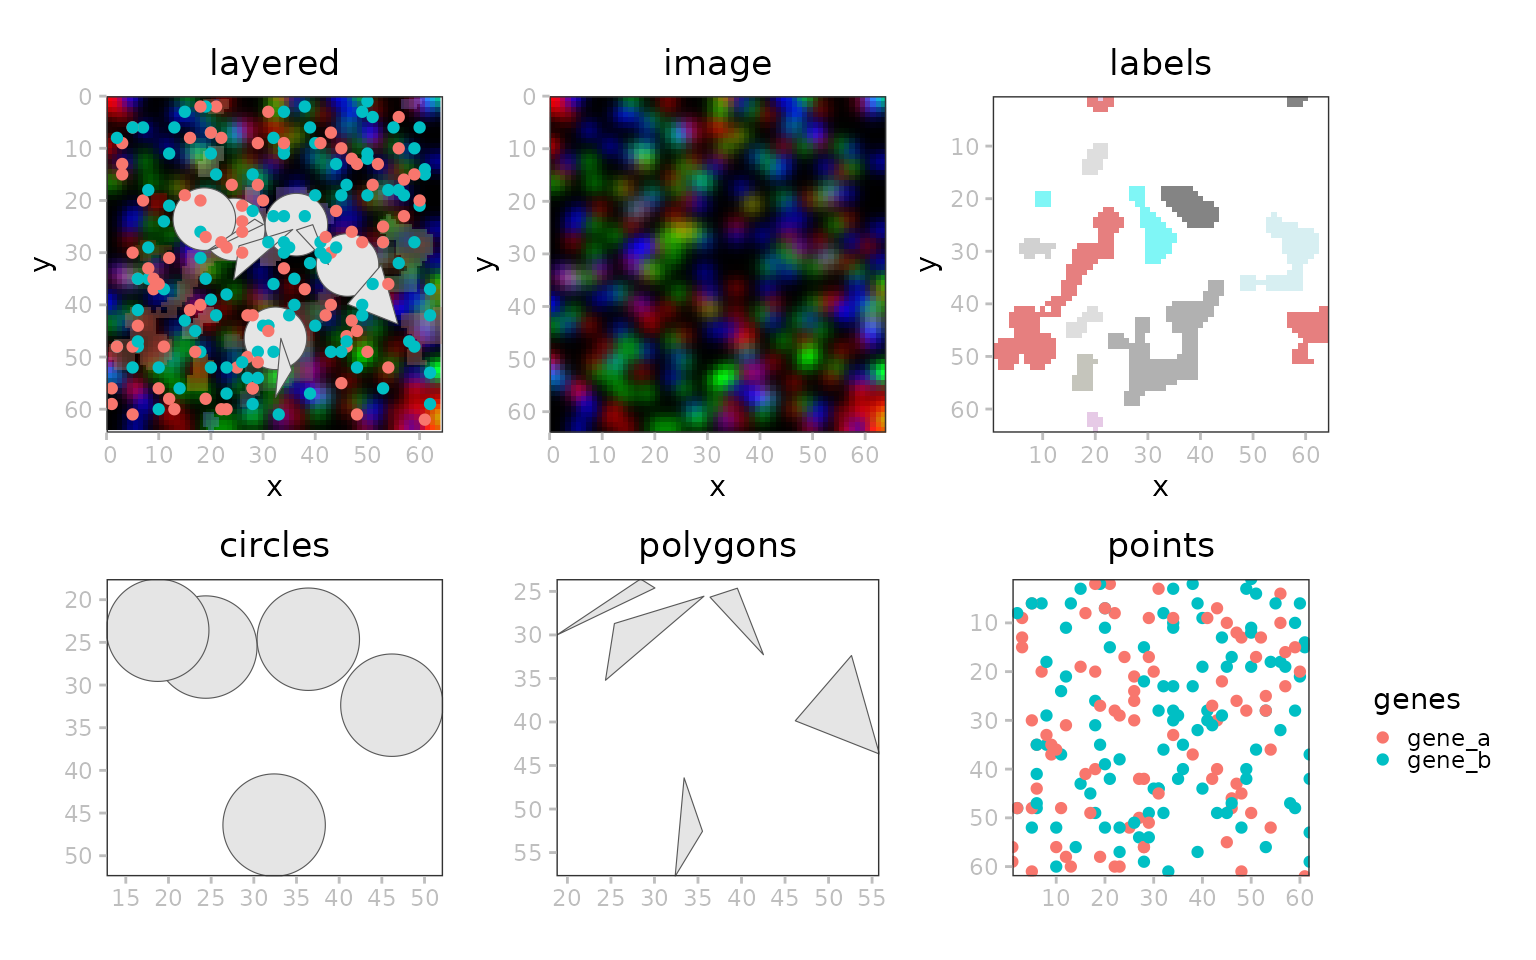
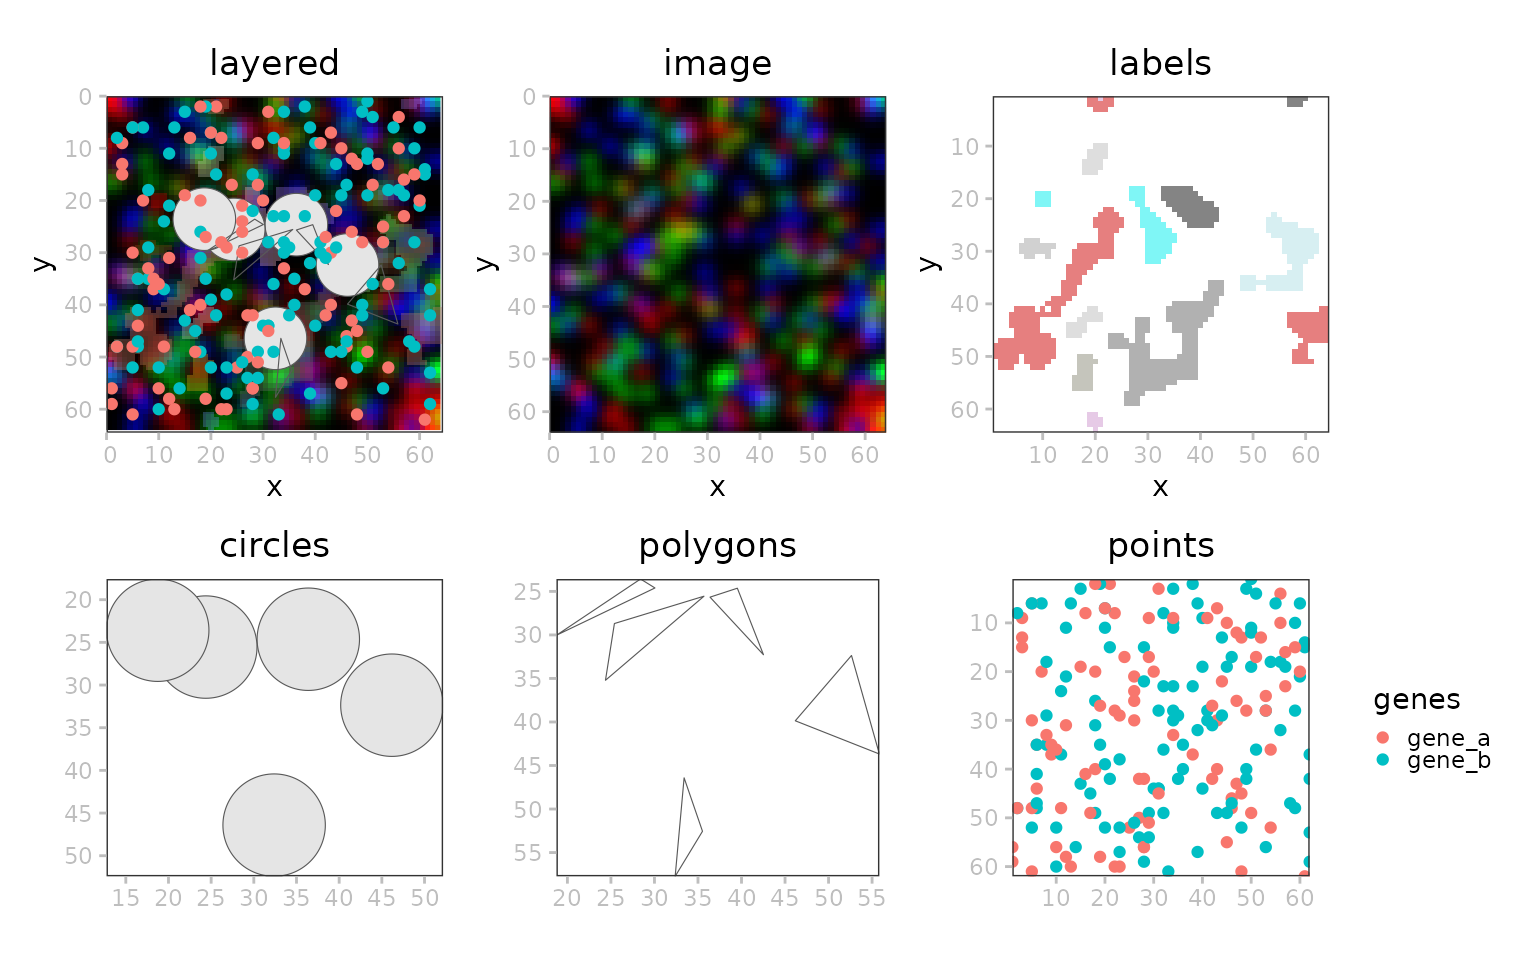
Deploying to gh-pages from @ HelenaLC/SpatialData.plot@3f7638e00d797963669b22868cc9accac0d2828b 🚀

diff --git a/articles/SpatialData.plot.html b/articles/SpatialData.plot.html
@@ -57,7 +57,7 @@
 
       <h1>`SpatialData.plot`</h1>
             
-            <h4 data-toc-skip class="date">October 10, 2026</h4>
+            <h4 data-toc-skip class="date">October 13, 2026</h4>
       
       <small class="dont-index">Source: <a href="https://github.com/HelenaLC/SpatialData.plot/blob/devel/vignettes/SpatialData.plot.Rmd" class="external-link"><code>vignettes/SpatialData.plot.Rmd</code></a></small>
       <div class="d-none name"><code>SpatialData.plot.Rmd</code></div>
@@ -172,11 +172,11 @@ aesthetics.</li>
 given element:</p>
 <div class="sourceCode" id="cb5"><pre class="downlit sourceCode r">
 <code class="sourceCode R"><span><span class="fu"><a href="https://helenalc.github.io/spatialdataR/reference/SpatialData.html" class="external-link">image</a></span><span class="op">(</span><span class="va">x</span>, <span class="st">"blobs_image"</span><span class="op">)</span></span></code></pre></div>
-<pre><code><span><span class="co">## class:  SpatialDataImage  </span></span>
+<pre><code><span><span class="co">## class: SpatialDataImage  </span></span>
 <span><span class="co">## Scales (1): (3,64,64)</span></span></code></pre>
 <div class="sourceCode" id="cb7"><pre class="downlit sourceCode r">
 <code class="sourceCode R"><span><span class="fu"><a href="https://helenalc.github.io/spatialdataR/reference/SpatialData.html" class="external-link">image</a></span><span class="op">(</span><span class="va">x</span>, <span class="st">"blobs_multiscale_image"</span><span class="op">)</span></span></code></pre></div>
-<pre><code><span><span class="co">## class:  SpatialDataImage (MultiScale) </span></span>
+<pre><code><span><span class="co">## class: SpatialDataImage (MultiScale) </span></span>
 <span><span class="co">## Scales (3): (3,64,64 3,32,32 3,16,16)</span></span></code></pre>
 <p>Internally, multiscale <code>ImageArray</code>s are stored as a list
 of <code>ZarrArray</code>, e.g.:</p>
@@ -304,7 +304,7 @@ using the <code><a href="../reference/scalebar.html">scalebar()</a></code> funct
 <div class="section level2">
 <h2 id="session-info">Session info<a class="anchor" aria-label="anchor" href="#session-info"></a>
 </h2>
-<pre><code><span><span class="co">## R Under development (unstable) (2026-10-09 r90655)</span></span>
+<pre><code><span><span class="co">## R Under development (unstable) (2026-10-12 r90666)</span></span>
 <span><span class="co">## Platform: x86_64-pc-linux-gnu</span></span>
 <span><span class="co">## Running under: Ubuntu 24.04.5 LTS</span></span>
 <span><span class="co">## </span></span>
@@ -325,7 +325,7 @@ using the <code><a href="../reference/scalebar.html">scalebar()</a></code> funct
 <span><span class="co">## [1] stats     graphics  grDevices utils     datasets  methods   base     </span></span>
 <span><span class="co">## </span></span>
 <span><span class="co">## other attached packages:</span></span>
-<span><span class="co">## [1] SpatialData.plot_0.99.9 spatialdataR_0.99.44    ggnewscale_0.5.2       </span></span>
+<span><span class="co">## [1] SpatialData.plot_0.99.9 spatialdataR_0.99.45    ggnewscale_0.5.2       </span></span>
 <span><span class="co">## [4] patchwork_1.3.2         ggplot2_4.0.3           BiocStyle_2.41.0       </span></span>
 <span><span class="co">## </span></span>
 <span><span class="co">## loaded via a namespace (and not attached):</span></span>
@@ -362,7 +362,7 @@ using the <code><a href="../reference/scalebar.html">scalebar()</a></code> funct
 <span><span class="co">## [61] jquerylib_0.1.4             units_1.0-1                </span></span>
 <span><span class="co">## [63] glue_1.8.1                  pkgdown_2.2.1              </span></span>
 <span><span class="co">## [65] ZarrArray_1.1.7             gtable_0.3.6               </span></span>
-<span><span class="co">## [67] Rarr_2.1.45                 GenomicRanges_1.65.4       </span></span>
+<span><span class="co">## [67] Rarr_2.1.46                 GenomicRanges_1.65.4       </span></span>
 <span><span class="co">## [69] tibble_3.3.1                pillar_1.11.1              </span></span>
 <span><span class="co">## [71] htmltools_0.5.9             Seqinfo_1.3.2              </span></span>
 <span><span class="co">## [73] graph_1.91.0                dbplyr_2.6.0               </span></span>
@@ -370,7 +370,7 @@ using the <code><a href="../reference/scalebar.html">scalebar()</a></code> funct
 <span><span class="co">## [77] wk_0.9.5                    textshaping_1.0.5          </span></span>
 <span><span class="co">## [79] evaluate_1.0.5              lattice_0.23-1             </span></span>
 <span><span class="co">## [81] Biobase_2.73.2              R.methodsS3_1.8.2          </span></span>
-<span><span class="co">## [83] png_0.1-9                   duckspatial_1.2.1          </span></span>
+<span><span class="co">## [83] png_0.1-9                   duckspatial_1.3.0          </span></span>
 <span><span class="co">## [85] paws.common_0.9.0           bslib_0.12.0               </span></span>
 <span><span class="co">## [87] class_7.3-24                uuid_1.2-2                 </span></span>
 <span><span class="co">## [89] Rcpp_1.1.2                  SparseArray_1.13.4         </span></span>

diff --git a/reference/plotPoint.html b/reference/plotPoint.html
@@ -87,14 +87,10 @@ existing <code>ggplot</code>.</p>
 <span class="r-msg co"><span class="r-pr">#&gt;</span> <span style="color: #00BBBB;">ℹ</span> Adding new coordinate system, which will replace the existing one.</span>
 <span class="r-plt img"><img src="plotPoint-1.png" alt="" width="700" height="433"></span>
 <span class="r-in"><span><span class="va">p</span> <span class="op">+</span> <span class="fu">plotPoint</span><span class="op">(</span>i<span class="op">=</span><span class="va">i</span>, colour<span class="op">=</span><span class="st">"genes"</span><span class="op">)</span>       <span class="co"># discrete</span></span></span>
-<span class="r-msg co"><span class="r-pr">#&gt;</span> Don't know how to automatically pick scale for object of type <span style="color: #0000BB;">&lt;NULL&gt;</span>.</span>
-<span class="r-msg co"><span class="r-pr">#&gt;</span> Defaulting to continuous.</span>
 <span class="r-msg co"><span class="r-pr">#&gt;</span> Coordinate system already present.</span>
 <span class="r-msg co"><span class="r-pr">#&gt;</span> <span style="color: #00BBBB;">ℹ</span> Adding new coordinate system, which will replace the existing one.</span>
 <span class="r-plt img"><img src="plotPoint-2.png" alt="" width="700" height="433"></span>
 <span class="r-in"><span><span class="va">p</span> <span class="op">+</span> <span class="fu">plotPoint</span><span class="op">(</span><span class="va">i</span>, colour<span class="op">=</span><span class="st">"instance_id"</span><span class="op">)</span> <span class="co"># continuous</span></span></span>
-<span class="r-msg co"><span class="r-pr">#&gt;</span> Don't know how to automatically pick scale for object of type <span style="color: #0000BB;">&lt;NULL&gt;</span>.</span>
-<span class="r-msg co"><span class="r-pr">#&gt;</span> Defaulting to continuous.</span>
 <span class="r-msg co"><span class="r-pr">#&gt;</span> Coordinate system already present.</span>
 <span class="r-msg co"><span class="r-pr">#&gt;</span> <span style="color: #00BBBB;">ℹ</span> Adding new coordinate system, which will replace the existing one.</span>
 <span class="r-plt img"><img src="plotPoint-3.png" alt="" width="700" height="433"></span>

diff --git a/reference/blobs.html b/reference/blobs.html
@@ -56,7 +56,7 @@ identity, scale, translation, affine, and sequence.</p>
 <span class="r-in"><span><span class="va">x</span> <span class="op">&lt;-</span> <span class="fu"><a href="https://rdrr.io/r/base/system.file.html" class="external-link">system.file</a></span><span class="op">(</span><span class="va">x</span>, package<span class="op">=</span><span class="st">"spatialdataR"</span><span class="op">)</span></span></span>
 <span class="r-in"><span><span class="op">(</span><span class="va">x</span> <span class="op">&lt;-</span> <span class="fu"><a href="https://helenalc.github.io/spatialdataR/reference/readSpatialData.html" class="external-link">readSpatialData</a></span><span class="op">(</span><span class="va">x</span><span class="op">)</span><span class="op">)</span></span></span>
 <span class="r-msg co"><span class="r-pr">#&gt;</span> duckdb keeps downloaded extensions and secrets in a temporary directory:</span>
-<span class="r-msg co"><span class="r-pr">#&gt;</span> <span style="color: #0000BB;">ℹ</span> /tmp/RtmpkRTWDk/duckdb</span>
+<span class="r-msg co"><span class="r-pr">#&gt;</span> <span style="color: #0000BB;">ℹ</span> /tmp/RtmpCDfxgX/duckdb</span>
 <span class="r-msg co"><span class="r-pr">#&gt;</span> This is removed when the R session ends.</span>
 <span class="r-msg co"><span class="r-pr">#&gt;</span> <span style="color: #00BBBB;">•</span> Extensions are re-downloaded each session.</span>
 <span class="r-msg co"><span class="r-pr">#&gt;</span> <span style="color: #00BBBB;">•</span> Secrets are lost.</span>

diff --git a/reference/plotShape.html b/reference/plotShape.html
@@ -42,7 +42,14 @@
 
     <div class="section level2">
     <h2 id="ref-usage">Usage<a class="anchor" aria-label="anchor" href="#ref-usage"></a></h2>
-    <div class="sourceCode"><pre class="sourceCode r"><code><span><span class="fu">plotShape</span><span class="op">(</span>i <span class="op">=</span> <span class="fl">1</span>, j <span class="op">=</span> <span class="cn">NULL</span>, assay <span class="op">=</span> <span class="fl">1</span>, x <span class="op">=</span> <span class="cn">NULL</span>, <span class="va">...</span><span class="op">)</span></span></code></pre></div>
+    <div class="sourceCode"><pre class="sourceCode r"><code><span><span class="fu">plotShape</span><span class="op">(</span></span>
+<span>  i <span class="op">=</span> <span class="fl">1</span>,</span>
+<span>  j <span class="op">=</span> <span class="cn">NULL</span>,</span>
+<span>  assay <span class="op">=</span> <span class="fl">1</span>,</span>
+<span>  x <span class="op">=</span> <span class="cn">NULL</span>,</span>
+<span>  as <span class="op">=</span> <span class="fu"><a href="https://rdrr.io/r/base/c.html" class="external-link">c</a></span><span class="op">(</span><span class="st">"border"</span>, <span class="st">"solid"</span>, <span class="st">"centroid"</span><span class="op">)</span>,</span>
+<span>  <span class="va">...</span></span>
+<span><span class="op">)</span></span></code></pre></div>
     </div>
 
     <div class="section level2">

diff --git a/reference/plotImage.html b/reference/plotImage.html
@@ -133,8 +133,6 @@ existing <code>ggplot</code>.</p>
 <span class="r-in"><span>  <span class="fu"><a href="plotPoint.html">plotPoint</a></span><span class="op">(</span>i<span class="op">=</span><span class="st">"blobs_points"</span>, colour<span class="op">=</span><span class="st">"instance_id"</span><span class="op">)</span></span></span>
 <span class="r-msg co"><span class="r-pr">#&gt;</span> Coordinate system already present.</span>
 <span class="r-msg co"><span class="r-pr">#&gt;</span> <span style="color: #00BBBB;">ℹ</span> Adding new coordinate system, which will replace the existing one.</span>
-<span class="r-msg co"><span class="r-pr">#&gt;</span> Don't know how to automatically pick scale for object of type <span style="color: #0000BB;">&lt;NULL&gt;</span>.</span>
-<span class="r-msg co"><span class="r-pr">#&gt;</span> Defaulting to continuous.</span>
 <span class="r-msg co"><span class="r-pr">#&gt;</span> Coordinate system already present.</span>
 <span class="r-msg co"><span class="r-pr">#&gt;</span> <span style="color: #00BBBB;">ℹ</span> Adding new coordinate system, which will replace the existing one.</span>
 <span class="r-plt img"><img src="plotImage-3.png" alt="" width="700" height="433"></span>

diff --git a/articles/SpatialData.plot.md b/articles/SpatialData.plot.md
@@ -114,7 +114,7 @@ Their show method includes the scales available for a given element:
 image(x, "blobs_image")
 ```
 
-    ## class:  SpatialDataImage  
+    ## class: SpatialDataImage  
     ## Scales (1): (3,64,64)
 
 ``` r
@@ -122,7 +122,7 @@ image(x, "blobs_image")
 image(x, "blobs_multiscale_image")
 ```
 
-    ## class:  SpatialDataImage (MultiScale) 
+    ## class: SpatialDataImage (MultiScale) 
     ## Scales (3): (3,64,64 3,32,32 3,16,16)
 
 Internally, multiscale `ImageArray`s are stored as a list of
@@ -270,7 +270,7 @@ plotSpatialData(x) +
 
 ## Session info
 
-    ## R Under development (unstable) (2026-10-09 r90655)
+    ## R Under development (unstable) (2026-10-12 r90666)
     ## Platform: x86_64-pc-linux-gnu
     ## Running under: Ubuntu 24.04.5 LTS
     ## 
@@ -291,7 +291,7 @@ plotSpatialData(x) +
     ## [1] stats     graphics  grDevices utils     datasets  methods   base     
     ## 
     ## other attached packages:
-    ## [1] SpatialData.plot_0.99.9 spatialdataR_0.99.44    ggnewscale_0.5.2       
+    ## [1] SpatialData.plot_0.99.9 spatialdataR_0.99.45    ggnewscale_0.5.2       
     ## [4] patchwork_1.3.2         ggplot2_4.0.3           BiocStyle_2.41.0       
     ## 
     ## loaded via a namespace (and not attached):
@@ -328,7 +328,7 @@ plotSpatialData(x) +
     ## [61] jquerylib_0.1.4             units_1.0-1                
     ## [63] glue_1.8.1                  pkgdown_2.2.1              
     ## [65] ZarrArray_1.1.7             gtable_0.3.6               
-    ## [67] Rarr_2.1.45                 GenomicRanges_1.65.4       
+    ## [67] Rarr_2.1.46                 GenomicRanges_1.65.4       
     ## [69] tibble_3.3.1                pillar_1.11.1              
     ## [71] htmltools_0.5.9             Seqinfo_1.3.2              
     ## [73] graph_1.91.0                dbplyr_2.6.0               
@@ -336,7 +336,7 @@ plotSpatialData(x) +
     ## [77] wk_0.9.5                    textshaping_1.0.5          
     ## [79] evaluate_1.0.5              lattice_0.23-1             
     ## [81] Biobase_2.73.2              R.methodsS3_1.8.2          
-    ## [83] png_0.1-9                   duckspatial_1.2.1          
+    ## [83] png_0.1-9                   duckspatial_1.3.0          
     ## [85] paws.common_0.9.0           bslib_0.12.0               
     ## [87] class_7.3-24                uuid_1.2-2                 
     ## [89] Rcpp_1.1.2                  SparseArray_1.13.4         

diff --git a/reference/plotPoint.md b/reference/plotPoint.md
@@ -49,14 +49,10 @@ p + plotPoint(i=i)                       # simple
 #> ℹ Adding new coordinate system, which will replace the existing one.
 
 p + plotPoint(i=i, colour="genes")       # discrete
-#> Don't know how to automatically pick scale for object of type <NULL>.
-#> Defaulting to continuous.
 #> Coordinate system already present.
 #> ℹ Adding new coordinate system, which will replace the existing one.
 
 p + plotPoint(i, colour="instance_id") # continuous
-#> Don't know how to automatically pick scale for object of type <NULL>.
-#> Defaulting to continuous.
 #> Coordinate system already present.
 #> ℹ Adding new coordinate system, which will replace the existing one.
 

diff --git a/reference/plotImage.md b/reference/plotImage.md
@@ -96,8 +96,6 @@ plotSpatialData(x, ct="global") +
   plotPoint(i="blobs_points", colour="instance_id")
 #> Coordinate system already present.
 #> ℹ Adding new coordinate system, which will replace the existing one.
-#> Don't know how to automatically pick scale for object of type <NULL>.
-#> Defaulting to continuous.
 #> Coordinate system already present.
 #> ℹ Adding new coordinate system, which will replace the existing one.
 

diff --git a/reference/blobs.md b/reference/blobs.md
@@ -18,7 +18,7 @@ x <- file.path("extdata", "blobs.zarr")
 x <- system.file(x, package="spatialdataR")
 (x <- readSpatialData(x))
 #> duckdb keeps downloaded extensions and secrets in a temporary directory:
-#> ℹ /tmp/RtmpkRTWDk/duckdb
+#> ℹ /tmp/RtmpCDfxgX/duckdb
 #> This is removed when the R session ends.
 #> • Extensions are re-downloaded each session.
 #> • Secrets are lost.

diff --git a/reference/plotShape.md b/reference/plotShape.md
@@ -5,7 +5,14 @@ Add shape layer to SpatialData plot
 ## Usage
 
 ``` r
-plotShape(i = 1, j = NULL, assay = 1, x = NULL, ...)
+plotShape(
+  i = 1,
+  j = NULL,
+  assay = 1,
+  x = NULL,
+  as = c("border", "solid", "centroid"),
+  ...
+)
 ```
 
 ## Arguments
